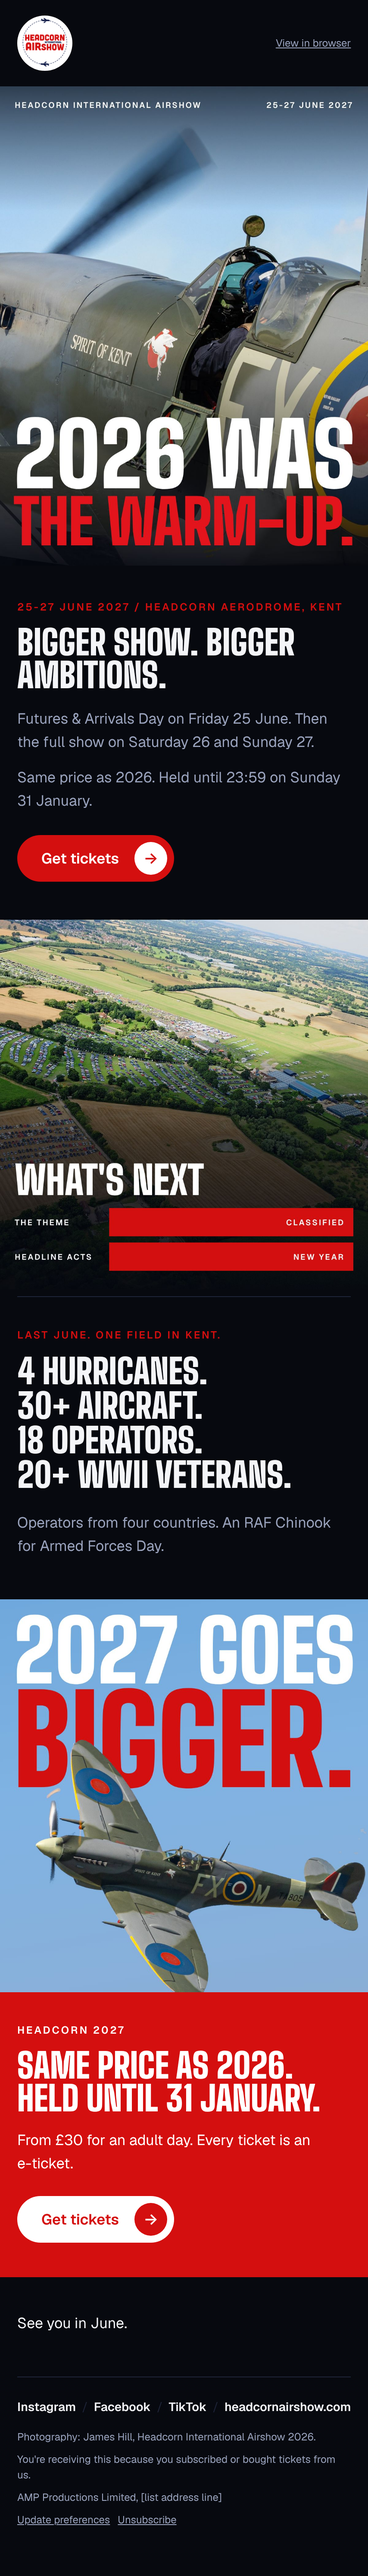
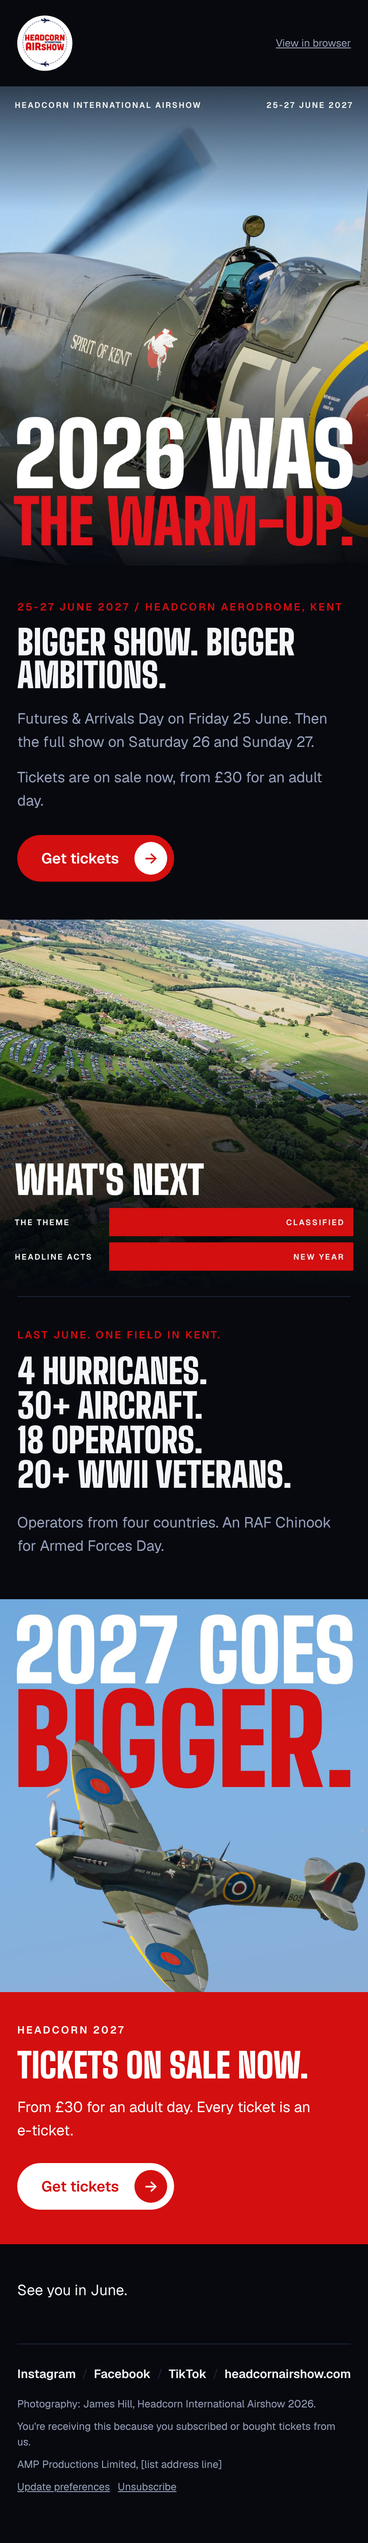
Remove price comparisons and deadlines from Emails 3 and 4
No same price as 2026, held until 31 January or 2026 prices. Email 3
now says tickets are on sale now, from £30 for an adult day.

Claude-Session: https://claude.ai/code/session_01RYv22kBDRZPB5vTuR4e7go

diff --git a/build/email-3-reintro.html b/build/email-3-reintro.html
@@ -41,7 +41,7 @@
 </style>
 </head>
 <body id="body" style="-webkit-text-size-adjust: 100%; -ms-text-size-adjust: 100%; margin: 0; padding: 0; width: 100%; background-color: #07090F; word-spacing: normal;">
-<div style="display:none;font-size:1px;color:#07090F;line-height:1px;max-height:0;max-width:0;opacity:0;overflow:hidden;mso-hide:all;">Bigger show. New theme. Headline acts in the new year. Price held until 31 January.&#847;&zwnj;&nbsp;&#847;&zwnj;&nbsp;&#847;&zwnj;&nbsp;&#847;&zwnj;&nbsp;&#847;&zwnj;&nbsp;&#847;&zwnj;&nbsp;&#847;&zwnj;&nbsp;&#847;&zwnj;&nbsp;&#847;&zwnj;&nbsp;&#847;&zwnj;&nbsp;&#847;&zwnj;&nbsp;&#847;&zwnj;&nbsp;&#847;&zwnj;&nbsp;&#847;&zwnj;&nbsp;&#847;&zwnj;&nbsp;&#847;&zwnj;&nbsp;&#847;&zwnj;&nbsp;&#847;&zwnj;&nbsp;&#847;&zwnj;&nbsp;&#847;&zwnj;&nbsp;&#847;&zwnj;&nbsp;&#847;&zwnj;&nbsp;&#847;&zwnj;&nbsp;&#847;&zwnj;&nbsp;&#847;&zwnj;&nbsp;&#847;&zwnj;&nbsp;&#847;&zwnj;&nbsp;&#847;&zwnj;&nbsp;&#847;&zwnj;&nbsp;&#847;&zwnj;&nbsp;&#847;&zwnj;&nbsp;&#847;&zwnj;&nbsp;&#847;&zwnj;&nbsp;&#847;&zwnj;&nbsp;&#847;&zwnj;&nbsp;&#847;&zwnj;&nbsp;&#847;&zwnj;&nbsp;&#847;&zwnj;&nbsp;&#847;&zwnj;&nbsp;&#847;&zwnj;&nbsp;&#847;&zwnj;&nbsp;&#847;&zwnj;&nbsp;&#847;&zwnj;&nbsp;&#847;&zwnj;&nbsp;&#847;&zwnj;&nbsp;&#847;&zwnj;&nbsp;&#847;&zwnj;&nbsp;&#847;&zwnj;&nbsp;&#847;&zwnj;&nbsp;&#847;&zwnj;&nbsp;&#847;&zwnj;&nbsp;&#847;&zwnj;&nbsp;&#847;&zwnj;&nbsp;&#847;&zwnj;&nbsp;&#847;&zwnj;&nbsp;&#847;&zwnj;&nbsp;&#847;&zwnj;&nbsp;&#847;&zwnj;&nbsp;&#847;&zwnj;&nbsp;&#847;&zwnj;&nbsp;&#847;&zwnj;&nbsp;&#847;&zwnj;&nbsp;&#847;&zwnj;&nbsp;&#847;&zwnj;&nbsp;&#847;&zwnj;&nbsp;&#847;&zwnj;&nbsp;&#847;&zwnj;&nbsp;&#847;&zwnj;&nbsp;&#847;&zwnj;&nbsp;&#847;&zwnj;&nbsp;&#847;&zwnj;&nbsp;&#847;&zwnj;&nbsp;&#847;&zwnj;&nbsp;&#847;&zwnj;&nbsp;&#847;&zwnj;&nbsp;&#847;&zwnj;&nbsp;&#847;&zwnj;&nbsp;&#847;&zwnj;&nbsp;&#847;&zwnj;&nbsp;&#847;&zwnj;&nbsp;&#847;&zwnj;&nbsp;&#847;&zwnj;&nbsp;&#847;&zwnj;&nbsp;&#847;&zwnj;&nbsp;&#847;&zwnj;&nbsp;&#847;&zwnj;&nbsp;&#847;&zwnj;&nbsp;&#847;&zwnj;&nbsp;&#847;&zwnj;&nbsp;&#847;&zwnj;&nbsp;&#847;&zwnj;&nbsp;&#847;&zwnj;&nbsp;&#847;&zwnj;&nbsp;&#847;&zwnj;&nbsp;&#847;&zwnj;&nbsp;&#847;&zwnj;&nbsp;&#847;&zwnj;&nbsp;&#847;&zwnj;&nbsp;&#847;&zwnj;&nbsp;&#847;&zwnj;&nbsp;&#847;&zwnj;&nbsp;&#847;&zwnj;&nbsp;&#847;&zwnj;&nbsp;&#847;&zwnj;&nbsp;&#847;&zwnj;&nbsp;&#847;&zwnj;&nbsp;&#847;&zwnj;&nbsp;&#847;&zwnj;&nbsp;&#847;&zwnj;&nbsp;&#847;&zwnj;&nbsp;</div>
+<div style="display:none;font-size:1px;color:#07090F;line-height:1px;max-height:0;max-width:0;opacity:0;overflow:hidden;mso-hide:all;">Bigger show. New theme. Headline acts in the new year. Tickets on sale now.&#847;&zwnj;&nbsp;&#847;&zwnj;&nbsp;&#847;&zwnj;&nbsp;&#847;&zwnj;&nbsp;&#847;&zwnj;&nbsp;&#847;&zwnj;&nbsp;&#847;&zwnj;&nbsp;&#847;&zwnj;&nbsp;&#847;&zwnj;&nbsp;&#847;&zwnj;&nbsp;&#847;&zwnj;&nbsp;&#847;&zwnj;&nbsp;&#847;&zwnj;&nbsp;&#847;&zwnj;&nbsp;&#847;&zwnj;&nbsp;&#847;&zwnj;&nbsp;&#847;&zwnj;&nbsp;&#847;&zwnj;&nbsp;&#847;&zwnj;&nbsp;&#847;&zwnj;&nbsp;&#847;&zwnj;&nbsp;&#847;&zwnj;&nbsp;&#847;&zwnj;&nbsp;&#847;&zwnj;&nbsp;&#847;&zwnj;&nbsp;&#847;&zwnj;&nbsp;&#847;&zwnj;&nbsp;&#847;&zwnj;&nbsp;&#847;&zwnj;&nbsp;&#847;&zwnj;&nbsp;&#847;&zwnj;&nbsp;&#847;&zwnj;&nbsp;&#847;&zwnj;&nbsp;&#847;&zwnj;&nbsp;&#847;&zwnj;&nbsp;&#847;&zwnj;&nbsp;&#847;&zwnj;&nbsp;&#847;&zwnj;&nbsp;&#847;&zwnj;&nbsp;&#847;&zwnj;&nbsp;&#847;&zwnj;&nbsp;&#847;&zwnj;&nbsp;&#847;&zwnj;&nbsp;&#847;&zwnj;&nbsp;&#847;&zwnj;&nbsp;&#847;&zwnj;&nbsp;&#847;&zwnj;&nbsp;&#847;&zwnj;&nbsp;&#847;&zwnj;&nbsp;&#847;&zwnj;&nbsp;&#847;&zwnj;&nbsp;&#847;&zwnj;&nbsp;&#847;&zwnj;&nbsp;&#847;&zwnj;&nbsp;&#847;&zwnj;&nbsp;&#847;&zwnj;&nbsp;&#847;&zwnj;&nbsp;&#847;&zwnj;&nbsp;&#847;&zwnj;&nbsp;&#847;&zwnj;&nbsp;&#847;&zwnj;&nbsp;&#847;&zwnj;&nbsp;&#847;&zwnj;&nbsp;&#847;&zwnj;&nbsp;&#847;&zwnj;&nbsp;&#847;&zwnj;&nbsp;&#847;&zwnj;&nbsp;&#847;&zwnj;&nbsp;&#847;&zwnj;&nbsp;&#847;&zwnj;&nbsp;&#847;&zwnj;&nbsp;&#847;&zwnj;&nbsp;&#847;&zwnj;&nbsp;&#847;&zwnj;&nbsp;&#847;&zwnj;&nbsp;&#847;&zwnj;&nbsp;&#847;&zwnj;&nbsp;&#847;&zwnj;&nbsp;&#847;&zwnj;&nbsp;&#847;&zwnj;&nbsp;&#847;&zwnj;&nbsp;&#847;&zwnj;&nbsp;&#847;&zwnj;&nbsp;&#847;&zwnj;&nbsp;&#847;&zwnj;&nbsp;&#847;&zwnj;&nbsp;&#847;&zwnj;&nbsp;&#847;&zwnj;&nbsp;&#847;&zwnj;&nbsp;&#847;&zwnj;&nbsp;&#847;&zwnj;&nbsp;&#847;&zwnj;&nbsp;&#847;&zwnj;&nbsp;&#847;&zwnj;&nbsp;&#847;&zwnj;&nbsp;&#847;&zwnj;&nbsp;&#847;&zwnj;&nbsp;&#847;&zwnj;&nbsp;&#847;&zwnj;&nbsp;&#847;&zwnj;&nbsp;&#847;&zwnj;&nbsp;&#847;&zwnj;&nbsp;&#847;&zwnj;&nbsp;&#847;&zwnj;&nbsp;&#847;&zwnj;&nbsp;&#847;&zwnj;&nbsp;&#847;&zwnj;&nbsp;&#847;&zwnj;&nbsp;&#847;&zwnj;&nbsp;&#847;&zwnj;&nbsp;</div>
 <div role="article" aria-roledescription="email" aria-label="2026 was the warm-up." lang="en-GB">
 <table role="presentation" cellpadding="0" cellspacing="0" border="0" width="100%" bgcolor="#07090F" style="-webkit-text-size-adjust: 100%; -ms-text-size-adjust: 100%; mso-table-lspace: 0pt; mso-table-rspace: 0pt; border-collapse: collapse; width: 100%; background-color: #07090F;">
 <tr><td align="center" style="-webkit-text-size-adjust: 100%; -ms-text-size-adjust: 100%; mso-table-lspace: 0pt; mso-table-rspace: 0pt; border-collapse: collapse;">
@@ -52,7 +52,7 @@
 <td valign="middle" align="right" style="-webkit-text-size-adjust: 100%; -ms-text-size-adjust: 100%; mso-table-lspace: 0pt; mso-table-rspace: 0pt; border-collapse: collapse; text-align: right; font-family: Geist, 'Helvetica Neue', Arial, sans-serif; font-size: 12px; line-height: 17px;"><a href="*|ARCHIVE|*" target="_blank" style="-webkit-text-size-adjust: 100%; -ms-text-size-adjust: 100%; color: #9AA3BD; text-decoration: underline;">View in browser</a></td>
 </tr></table></td></tr>
 <tr><td style="-webkit-text-size-adjust: 100%; -ms-text-size-adjust: 100%; mso-table-lspace: 0pt; mso-table-rspace: 0pt; border-collapse: collapse; padding: 0px 0 0 0;"><div mc:edit="art_hero"><table role="presentation" cellpadding="0" cellspacing="0" border="0" width="100%" style="-webkit-text-size-adjust: 100%; -ms-text-size-adjust: 100%; mso-table-lspace: 0pt; mso-table-rspace: 0pt; border-collapse: collapse; width: 100%;"><tr><td bgcolor="#0E1222" style="-webkit-text-size-adjust: 100%; -ms-text-size-adjust: 100%; mso-table-lspace: 0pt; mso-table-rspace: 0pt; border-collapse: collapse; background-color: #0E1222;"><a href="https://headcornairshow.com/tickets?utm_source=mailchimp&utm_medium=email&utm_campaign=hia27_reintro&utm_content=hero" target="_blank" style="-webkit-text-size-adjust: 100%; -ms-text-size-adjust: 100%; display: block; text-decoration: none;"><img src="assets/art_hero.jpg" width="600" height="780" alt="2026 was the warm-up. Headcorn International Airshow, 25-27 June 2027." style="display: block; width: 100%; max-width: 600px; height: auto; border: 0; outline: none; text-decoration: none; font-family: 'Big Shoulders Display', Impact, 'Arial Narrow Bold', sans-serif; font-weight: 900; font-size: 40px; line-height: 44px; text-transform: uppercase; color: #F4F5F8; -ms-interpolation-mode: bicubic;"></a></td></tr></table></div></td></tr>
-<tr><td class="px" style="-webkit-text-size-adjust: 100%; -ms-text-size-adjust: 100%; mso-table-lspace: 0pt; mso-table-rspace: 0pt; border-collapse: collapse; padding: 40px 24px 44px 24px;"><div mc:edit="intro"><p style="-webkit-text-size-adjust: 100%; -ms-text-size-adjust: 100%; margin: 0 0 14px 0; font-family: Geist, 'Helvetica Neue', Arial, sans-serif; font-size: 12px; line-height: 16px; font-weight: 600; letter-spacing: 0.16em; text-transform: uppercase; color: #D40F0F;">25-27 June 2027 / Headcorn Aerodrome, Kent</p><p class="h2" style="-webkit-text-size-adjust: 100%; -ms-text-size-adjust: 100%; margin: 0 0 18px 0; font-family: 'Big Shoulders Display', Impact, 'Arial Narrow Bold', sans-serif; font-weight: 900; font-size: 54px; line-height: 50px; text-transform: uppercase; color: #F4F5F8; mso-line-height-rule: exactly;">Bigger show. Bigger ambitions.</p><p style="-webkit-text-size-adjust: 100%; -ms-text-size-adjust: 100%; margin: 0 0 14px 0; font-family: Geist, 'Helvetica Neue', Arial, sans-serif; font-size: 17px; line-height: 27px; color: #9AA3BD;">Futures &amp; Arrivals Day on Friday 25 June. Then the full show on Saturday 26 and Sunday 27.</p><p style="-webkit-text-size-adjust: 100%; -ms-text-size-adjust: 100%; margin: 0 0 14px 0; font-family: Geist, 'Helvetica Neue', Arial, sans-serif; font-size: 17px; line-height: 27px; color: #9AA3BD;">Same price as 2026. Held until 23:59 on Sunday 31 January.</p><div style="padding-top:12px;"><!--[if mso]>
+<tr><td class="px" style="-webkit-text-size-adjust: 100%; -ms-text-size-adjust: 100%; mso-table-lspace: 0pt; mso-table-rspace: 0pt; border-collapse: collapse; padding: 40px 24px 44px 24px;"><div mc:edit="intro"><p style="-webkit-text-size-adjust: 100%; -ms-text-size-adjust: 100%; margin: 0 0 14px 0; font-family: Geist, 'Helvetica Neue', Arial, sans-serif; font-size: 12px; line-height: 16px; font-weight: 600; letter-spacing: 0.16em; text-transform: uppercase; color: #D40F0F;">25-27 June 2027 / Headcorn Aerodrome, Kent</p><p class="h2" style="-webkit-text-size-adjust: 100%; -ms-text-size-adjust: 100%; margin: 0 0 18px 0; font-family: 'Big Shoulders Display', Impact, 'Arial Narrow Bold', sans-serif; font-weight: 900; font-size: 54px; line-height: 50px; text-transform: uppercase; color: #F4F5F8; mso-line-height-rule: exactly;">Bigger show. Bigger ambitions.</p><p style="-webkit-text-size-adjust: 100%; -ms-text-size-adjust: 100%; margin: 0 0 14px 0; font-family: Geist, 'Helvetica Neue', Arial, sans-serif; font-size: 17px; line-height: 27px; color: #9AA3BD;">Futures &amp; Arrivals Day on Friday 25 June. Then the full show on Saturday 26 and Sunday 27.</p><p style="-webkit-text-size-adjust: 100%; -ms-text-size-adjust: 100%; margin: 0 0 14px 0; font-family: Geist, 'Helvetica Neue', Arial, sans-serif; font-size: 17px; line-height: 27px; color: #9AA3BD;">Tickets are on sale now, from £30 for an adult day.</p><div style="padding-top:12px;"><!--[if mso]>
 <v:roundrect xmlns:v="urn:schemas-microsoft-com:vml" xmlns:w="urn:schemas-microsoft-com:office:word" href="https://headcornairshow.com/tickets?utm_source=mailchimp&utm_medium=email&utm_campaign=hia27_reintro&utm_content=intro_cta" style="height:54px;v-text-anchor:middle;width:219px;" arcsize="50%" stroke="f" fillcolor="#D40F0F">
 <w:anchorlock/>
 <center style="color:#FFFFFF;font-family:Arial,sans-serif;font-size:17px;font-weight:bold;">Get tickets&nbsp;&nbsp;&#8594;</center>
@@ -63,7 +63,7 @@
 <tr><td style="-webkit-text-size-adjust: 100%; -ms-text-size-adjust: 100%; mso-table-lspace: 0pt; mso-table-rspace: 0pt; border-collapse: collapse; padding: 0px 0 0 0;"><div mc:edit="art_flying"><table role="presentation" cellpadding="0" cellspacing="0" border="0" width="100%" style="-webkit-text-size-adjust: 100%; -ms-text-size-adjust: 100%; mso-table-lspace: 0pt; mso-table-rspace: 0pt; border-collapse: collapse; width: 100%;"><tr><td bgcolor="#0E1222" style="-webkit-text-size-adjust: 100%; -ms-text-size-adjust: 100%; mso-table-lspace: 0pt; mso-table-rspace: 0pt; border-collapse: collapse; background-color: #0E1222;"><a href="https://headcornairshow.com/tickets?utm_source=mailchimp&utm_medium=email&utm_campaign=hia27_reintro&utm_content=flying" target="_blank" style="-webkit-text-size-adjust: 100%; -ms-text-size-adjust: 100%; display: block; text-decoration: none;"><img src="assets/art_flying.jpg" width="600" height="640" alt="2027 goes bigger. Spitfire Spirit of Kent in flight." style="display: block; width: 100%; max-width: 600px; height: auto; border: 0; outline: none; text-decoration: none; font-family: 'Big Shoulders Display', Impact, 'Arial Narrow Bold', sans-serif; font-weight: 900; font-size: 40px; line-height: 44px; text-transform: uppercase; color: #F4F5F8; -ms-interpolation-mode: bicubic;"></a></td></tr></table></div></td></tr>
 <tr><td style="-webkit-text-size-adjust: 100%; -ms-text-size-adjust: 100%; mso-table-lspace: 0pt; mso-table-rspace: 0pt; border-collapse: collapse;"><div mc:edit="band"><table role="presentation" cellpadding="0" cellspacing="0" border="0" width="100%" style="-webkit-text-size-adjust: 100%; -ms-text-size-adjust: 100%; mso-table-lspace: 0pt; mso-table-rspace: 0pt; border-collapse: collapse; width: 100%;"><tr><td class="px" bgcolor="#D40F0F" style="-webkit-text-size-adjust: 100%; -ms-text-size-adjust: 100%; mso-table-lspace: 0pt; mso-table-rspace: 0pt; border-collapse: collapse; background-color: #D40F0F; padding: 36px 24px 40px 24px;">
 <p style="-webkit-text-size-adjust: 100%; -ms-text-size-adjust: 100%; margin: 0 0 14px 0; font-family: Geist, 'Helvetica Neue', Arial, sans-serif; font-size: 12px; line-height: 16px; font-weight: 600; letter-spacing: 0.16em; text-transform: uppercase; color: #FFFFFF;">Headcorn 2027</p>
-<p class="h2" style="-webkit-text-size-adjust: 100%; -ms-text-size-adjust: 100%; margin: 0 0 16px 0; font-family: 'Big Shoulders Display', Impact, 'Arial Narrow Bold', sans-serif; font-weight: 900; font-size: 46px; line-height: 44px; text-transform: uppercase; color: #FFFFFF; mso-line-height-rule: exactly;">Same price as 2026. Held until 31 January.</p>
+<p class="h2" style="-webkit-text-size-adjust: 100%; -ms-text-size-adjust: 100%; margin: 0 0 16px 0; font-family: 'Big Shoulders Display', Impact, 'Arial Narrow Bold', sans-serif; font-weight: 900; font-size: 46px; line-height: 44px; text-transform: uppercase; color: #FFFFFF; mso-line-height-rule: exactly;">Tickets on sale now.</p>
 <p style="-webkit-text-size-adjust: 100%; -ms-text-size-adjust: 100%; margin: 0 0 14px 0; font-family: Geist, 'Helvetica Neue', Arial, sans-serif; font-size: 17px; line-height: 27px; color: #FFFFFF;">From £30 for an adult day. Every ticket is an <span style="white-space:nowrap;">e-ticket</span>.</p>
 <div style="padding-top:10px;"><!--[if mso]>
 <v:roundrect xmlns:v="urn:schemas-microsoft-com:vml" xmlns:w="urn:schemas-microsoft-com:office:word" href="https://headcornairshow.com/tickets?utm_source=mailchimp&utm_medium=email&utm_campaign=hia27_reintro&utm_content=band" style="height:54px;v-text-anchor:middle;width:219px;" arcsize="50%" stroke="f" fillcolor="#FFFFFF">

diff --git a/build/email-4-christmas.html b/build/email-4-christmas.html
@@ -41,7 +41,7 @@
 </style>
 </head>
 <body id="body" style="-webkit-text-size-adjust: 100%; -ms-text-size-adjust: 100%; margin: 0; padding: 0; width: 100%; background-color: #07090F; word-spacing: normal;">
-<div style="display:none;font-size:1px;color:#07090F;line-height:1px;max-height:0;max-width:0;opacity:0;overflow:hidden;mso-hide:all;">A Headcorn 2027 e-ticket, from £30 at 2026 prices.&#847;&zwnj;&nbsp;&#847;&zwnj;&nbsp;&#847;&zwnj;&nbsp;&#847;&zwnj;&nbsp;&#847;&zwnj;&nbsp;&#847;&zwnj;&nbsp;&#847;&zwnj;&nbsp;&#847;&zwnj;&nbsp;&#847;&zwnj;&nbsp;&#847;&zwnj;&nbsp;&#847;&zwnj;&nbsp;&#847;&zwnj;&nbsp;&#847;&zwnj;&nbsp;&#847;&zwnj;&nbsp;&#847;&zwnj;&nbsp;&#847;&zwnj;&nbsp;&#847;&zwnj;&nbsp;&#847;&zwnj;&nbsp;&#847;&zwnj;&nbsp;&#847;&zwnj;&nbsp;&#847;&zwnj;&nbsp;&#847;&zwnj;&nbsp;&#847;&zwnj;&nbsp;&#847;&zwnj;&nbsp;&#847;&zwnj;&nbsp;&#847;&zwnj;&nbsp;&#847;&zwnj;&nbsp;&#847;&zwnj;&nbsp;&#847;&zwnj;&nbsp;&#847;&zwnj;&nbsp;&#847;&zwnj;&nbsp;&#847;&zwnj;&nbsp;&#847;&zwnj;&nbsp;&#847;&zwnj;&nbsp;&#847;&zwnj;&nbsp;&#847;&zwnj;&nbsp;&#847;&zwnj;&nbsp;&#847;&zwnj;&nbsp;&#847;&zwnj;&nbsp;&#847;&zwnj;&nbsp;&#847;&zwnj;&nbsp;&#847;&zwnj;&nbsp;&#847;&zwnj;&nbsp;&#847;&zwnj;&nbsp;&#847;&zwnj;&nbsp;&#847;&zwnj;&nbsp;&#847;&zwnj;&nbsp;&#847;&zwnj;&nbsp;&#847;&zwnj;&nbsp;&#847;&zwnj;&nbsp;&#847;&zwnj;&nbsp;&#847;&zwnj;&nbsp;&#847;&zwnj;&nbsp;&#847;&zwnj;&nbsp;&#847;&zwnj;&nbsp;&#847;&zwnj;&nbsp;&#847;&zwnj;&nbsp;&#847;&zwnj;&nbsp;&#847;&zwnj;&nbsp;&#847;&zwnj;&nbsp;&#847;&zwnj;&nbsp;&#847;&zwnj;&nbsp;&#847;&zwnj;&nbsp;&#847;&zwnj;&nbsp;&#847;&zwnj;&nbsp;&#847;&zwnj;&nbsp;&#847;&zwnj;&nbsp;&#847;&zwnj;&nbsp;&#847;&zwnj;&nbsp;&#847;&zwnj;&nbsp;&#847;&zwnj;&nbsp;&#847;&zwnj;&nbsp;&#847;&zwnj;&nbsp;&#847;&zwnj;&nbsp;&#847;&zwnj;&nbsp;&#847;&zwnj;&nbsp;&#847;&zwnj;&nbsp;&#847;&zwnj;&nbsp;&#847;&zwnj;&nbsp;&#847;&zwnj;&nbsp;&#847;&zwnj;&nbsp;&#847;&zwnj;&nbsp;&#847;&zwnj;&nbsp;&#847;&zwnj;&nbsp;&#847;&zwnj;&nbsp;&#847;&zwnj;&nbsp;&#847;&zwnj;&nbsp;&#847;&zwnj;&nbsp;&#847;&zwnj;&nbsp;&#847;&zwnj;&nbsp;&#847;&zwnj;&nbsp;&#847;&zwnj;&nbsp;&#847;&zwnj;&nbsp;&#847;&zwnj;&nbsp;&#847;&zwnj;&nbsp;&#847;&zwnj;&nbsp;&#847;&zwnj;&nbsp;&#847;&zwnj;&nbsp;&#847;&zwnj;&nbsp;&#847;&zwnj;&nbsp;&#847;&zwnj;&nbsp;&#847;&zwnj;&nbsp;&#847;&zwnj;&nbsp;&#847;&zwnj;&nbsp;&#847;&zwnj;&nbsp;&#847;&zwnj;&nbsp;&#847;&zwnj;&nbsp;&#847;&zwnj;&nbsp;&#847;&zwnj;&nbsp;&#847;&zwnj;&nbsp;</div>
+<div style="display:none;font-size:1px;color:#07090F;line-height:1px;max-height:0;max-width:0;opacity:0;overflow:hidden;mso-hide:all;">A Headcorn 2027 e-ticket, from £30.&#847;&zwnj;&nbsp;&#847;&zwnj;&nbsp;&#847;&zwnj;&nbsp;&#847;&zwnj;&nbsp;&#847;&zwnj;&nbsp;&#847;&zwnj;&nbsp;&#847;&zwnj;&nbsp;&#847;&zwnj;&nbsp;&#847;&zwnj;&nbsp;&#847;&zwnj;&nbsp;&#847;&zwnj;&nbsp;&#847;&zwnj;&nbsp;&#847;&zwnj;&nbsp;&#847;&zwnj;&nbsp;&#847;&zwnj;&nbsp;&#847;&zwnj;&nbsp;&#847;&zwnj;&nbsp;&#847;&zwnj;&nbsp;&#847;&zwnj;&nbsp;&#847;&zwnj;&nbsp;&#847;&zwnj;&nbsp;&#847;&zwnj;&nbsp;&#847;&zwnj;&nbsp;&#847;&zwnj;&nbsp;&#847;&zwnj;&nbsp;&#847;&zwnj;&nbsp;&#847;&zwnj;&nbsp;&#847;&zwnj;&nbsp;&#847;&zwnj;&nbsp;&#847;&zwnj;&nbsp;&#847;&zwnj;&nbsp;&#847;&zwnj;&nbsp;&#847;&zwnj;&nbsp;&#847;&zwnj;&nbsp;&#847;&zwnj;&nbsp;&#847;&zwnj;&nbsp;&#847;&zwnj;&nbsp;&#847;&zwnj;&nbsp;&#847;&zwnj;&nbsp;&#847;&zwnj;&nbsp;&#847;&zwnj;&nbsp;&#847;&zwnj;&nbsp;&#847;&zwnj;&nbsp;&#847;&zwnj;&nbsp;&#847;&zwnj;&nbsp;&#847;&zwnj;&nbsp;&#847;&zwnj;&nbsp;&#847;&zwnj;&nbsp;&#847;&zwnj;&nbsp;&#847;&zwnj;&nbsp;&#847;&zwnj;&nbsp;&#847;&zwnj;&nbsp;&#847;&zwnj;&nbsp;&#847;&zwnj;&nbsp;&#847;&zwnj;&nbsp;&#847;&zwnj;&nbsp;&#847;&zwnj;&nbsp;&#847;&zwnj;&nbsp;&#847;&zwnj;&nbsp;&#847;&zwnj;&nbsp;&#847;&zwnj;&nbsp;&#847;&zwnj;&nbsp;&#847;&zwnj;&nbsp;&#847;&zwnj;&nbsp;&#847;&zwnj;&nbsp;&#847;&zwnj;&nbsp;&#847;&zwnj;&nbsp;&#847;&zwnj;&nbsp;&#847;&zwnj;&nbsp;&#847;&zwnj;&nbsp;&#847;&zwnj;&nbsp;&#847;&zwnj;&nbsp;&#847;&zwnj;&nbsp;&#847;&zwnj;&nbsp;&#847;&zwnj;&nbsp;&#847;&zwnj;&nbsp;&#847;&zwnj;&nbsp;&#847;&zwnj;&nbsp;&#847;&zwnj;&nbsp;&#847;&zwnj;&nbsp;&#847;&zwnj;&nbsp;&#847;&zwnj;&nbsp;&#847;&zwnj;&nbsp;&#847;&zwnj;&nbsp;&#847;&zwnj;&nbsp;&#847;&zwnj;&nbsp;&#847;&zwnj;&nbsp;&#847;&zwnj;&nbsp;&#847;&zwnj;&nbsp;&#847;&zwnj;&nbsp;&#847;&zwnj;&nbsp;&#847;&zwnj;&nbsp;&#847;&zwnj;&nbsp;&#847;&zwnj;&nbsp;&#847;&zwnj;&nbsp;&#847;&zwnj;&nbsp;&#847;&zwnj;&nbsp;&#847;&zwnj;&nbsp;&#847;&zwnj;&nbsp;&#847;&zwnj;&nbsp;&#847;&zwnj;&nbsp;&#847;&zwnj;&nbsp;&#847;&zwnj;&nbsp;&#847;&zwnj;&nbsp;&#847;&zwnj;&nbsp;&#847;&zwnj;&nbsp;&#847;&zwnj;&nbsp;&#847;&zwnj;&nbsp;&#847;&zwnj;&nbsp;&#847;&zwnj;&nbsp;</div>
 <div role="article" aria-roledescription="email" aria-label="Put June under the tree." lang="en-GB">
 <table role="presentation" cellpadding="0" cellspacing="0" border="0" width="100%" bgcolor="#07090F" style="-webkit-text-size-adjust: 100%; -ms-text-size-adjust: 100%; mso-table-lspace: 0pt; mso-table-rspace: 0pt; border-collapse: collapse; width: 100%; background-color: #07090F;">
 <tr><td align="center" style="-webkit-text-size-adjust: 100%; -ms-text-size-adjust: 100%; mso-table-lspace: 0pt; mso-table-rspace: 0pt; border-collapse: collapse;">
@@ -55,7 +55,7 @@
 <tr><td style="-webkit-text-size-adjust: 100%; -ms-text-size-adjust: 100%; mso-table-lspace: 0pt; mso-table-rspace: 0pt; border-collapse: collapse;"><div mc:edit="band"><table role="presentation" cellpadding="0" cellspacing="0" border="0" width="100%" style="-webkit-text-size-adjust: 100%; -ms-text-size-adjust: 100%; mso-table-lspace: 0pt; mso-table-rspace: 0pt; border-collapse: collapse; width: 100%;"><tr><td class="px" bgcolor="#D40F0F" style="-webkit-text-size-adjust: 100%; -ms-text-size-adjust: 100%; mso-table-lspace: 0pt; mso-table-rspace: 0pt; border-collapse: collapse; background-color: #D40F0F; padding: 36px 24px 40px 24px;">
 <p style="-webkit-text-size-adjust: 100%; -ms-text-size-adjust: 100%; margin: 0 0 14px 0; font-family: Geist, 'Helvetica Neue', Arial, sans-serif; font-size: 12px; line-height: 16px; font-weight: 600; letter-spacing: 0.16em; text-transform: uppercase; color: #FFFFFF;">Christmas</p>
 
-<p style="-webkit-text-size-adjust: 100%; -ms-text-size-adjust: 100%; margin: 0 0 14px 0; font-family: Geist, 'Helvetica Neue', Arial, sans-serif; font-size: 17px; line-height: 27px; color: #FFFFFF;">Every ticket is an <span style="white-space:nowrap;">e-ticket</span>. Buy one now, give it on Christmas Day.</p><p style="-webkit-text-size-adjust: 100%; -ms-text-size-adjust: 100%; margin: 0 0 14px 0; font-family: Geist, 'Helvetica Neue', Arial, sans-serif; font-size: 17px; line-height: 27px; color: #FFFFFF;">From £30 for an adult day, at 2026 prices until 31 January.</p>
+<p style="-webkit-text-size-adjust: 100%; -ms-text-size-adjust: 100%; margin: 0 0 14px 0; font-family: Geist, 'Helvetica Neue', Arial, sans-serif; font-size: 17px; line-height: 27px; color: #FFFFFF;">Every ticket is an <span style="white-space:nowrap;">e-ticket</span>. Buy one now, give it on Christmas Day.</p><p style="-webkit-text-size-adjust: 100%; -ms-text-size-adjust: 100%; margin: 0 0 14px 0; font-family: Geist, 'Helvetica Neue', Arial, sans-serif; font-size: 17px; line-height: 27px; color: #FFFFFF;">From £30 for an adult day.</p>
 <div style="padding-top:10px;"><!--[if mso]>
 <v:roundrect xmlns:v="urn:schemas-microsoft-com:vml" xmlns:w="urn:schemas-microsoft-com:office:word" href="https://headcornairshow.com/tickets?utm_source=mailchimp&utm_medium=email&utm_campaign=hia27_christmas&utm_content=band_xmas" style="height:54px;v-text-anchor:middle;width:219px;" arcsize="50%" stroke="f" fillcolor="#FFFFFF">
 <w:anchorlock/>

diff --git a/src/emails/email-3-reintro.js b/src/emails/email-3-reintro.js
@@ -10,8 +10,9 @@ module.exports = {
   template: 'bold',
   subject: '2026 was the warm-up.',
   campaign: 'hia27_reintro',
-  preheader: 'Bigger show. New theme. Headline acts in the new year. Price held until 31 January.',
-  // A/B subject: 'Headcorn 2027. Same price as 2026.'
+  preheader: 'Bigger show. New theme. Headline acts in the new year. Tickets on sale now.',
+  // A/B subject: 'Headcorn 2027. Tickets on sale now.'
+  // No price comparisons or price deadlines in this email.
   credits: 'Photography: James Hill, Headcorn International Airshow 2026.',
 
   // Artboards: photo + type, rendered to JPEG by scripts/assets.js.
@@ -70,7 +71,7 @@ module.exports = {
       title: 'Bigger show. Bigger ambitions.',
       paragraphs: [
         'Futures &amp; Arrivals Day on Friday 25 June. Then the full show on Saturday 26 and Sunday 27.',
-        'Same price as 2026. Held until 23:59 on Sunday 31 January.',
+        'Tickets are on sale now, from £30 for an adult day.',
       ],
       cta: { label: 'Get tickets', link: 'tickets', utmContent: 'intro_cta' },
     },
@@ -90,7 +91,7 @@ module.exports = {
     {
       type: 'band',
       eyebrow: 'Headcorn 2027',
-      title: 'Same price as 2026. Held until 31 January.',
+      title: 'Tickets on sale now.',
       paragraphs: ['From £30 for an adult day. Every ticket is an <span style="white-space:nowrap;">e-ticket</span>.'],
       label: 'Get tickets',
       link: 'tickets',

diff --git a/src/emails/email-4-christmas.js b/src/emails/email-4-christmas.js
@@ -10,7 +10,7 @@ module.exports = {
   template: 'bold',
   subject: 'Put June under the tree.',
   campaign: 'hia27_christmas',
-  preheader: 'A Headcorn 2027 e-ticket, from £30 at 2026 prices.',
+  preheader: 'A Headcorn 2027 e-ticket, from £30.',
   credits: 'Photography: James Hill, Headcorn International Airshow 2026.',
 
   art: [
@@ -35,7 +35,7 @@ module.exports = {
       eyebrow: 'Christmas',
       paragraphs: [
         'Every ticket is an <span style="white-space:nowrap;">e-ticket</span>. Buy one now, give it on Christmas Day.',
-        'From £30 for an adult day, at 2026 prices until 31 January.',
+        'From £30 for an adult day.',
       ],
       label: 'Get tickets',
       link: 'tickets',
